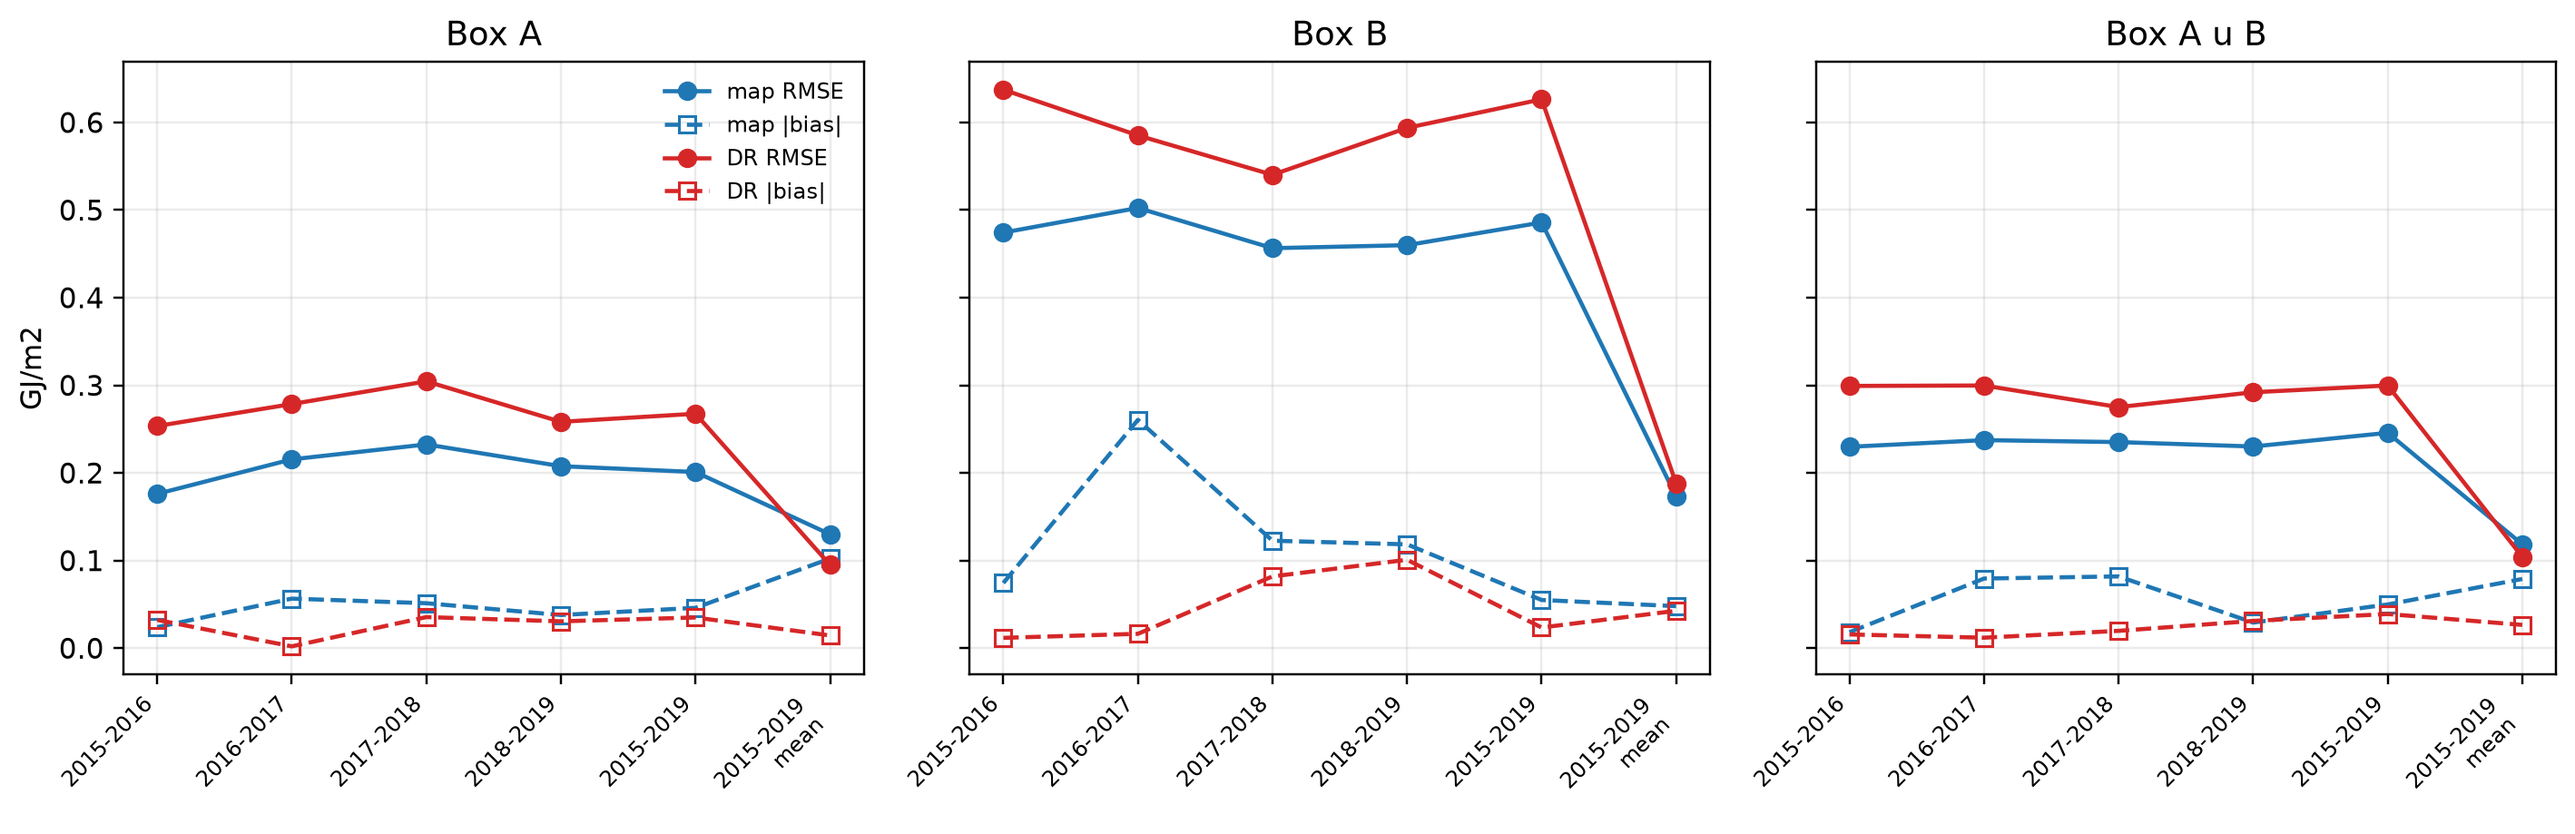
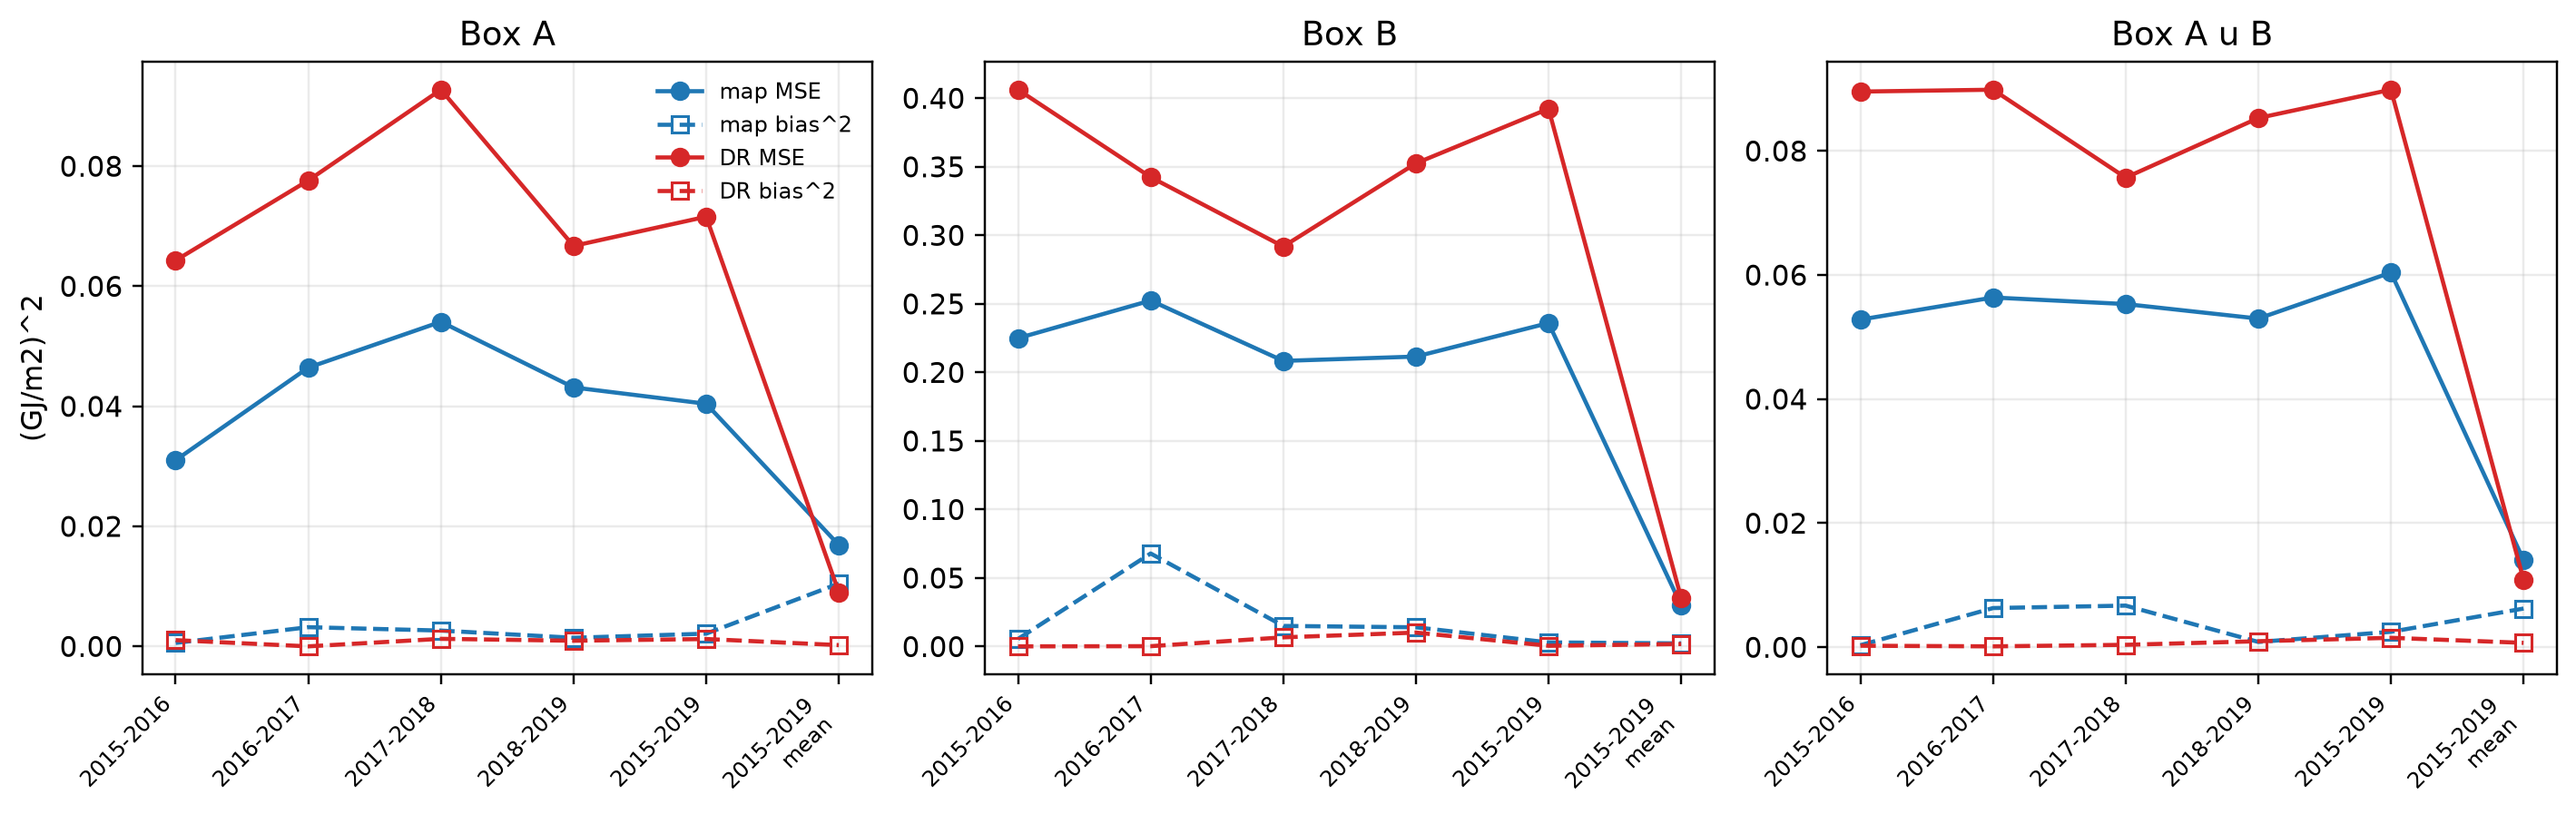
glorys_chain: methods first with virtual-float simulation, q/q-hat/w and advection map; MSE throughout, variance vs bias plane

diff --git a/code/osim/chain.py b/code/osim/chain.py
@@ -705,6 +705,15 @@ def plot_intensity(nd, prof, figsize=(12, 5.5)):
     return fig
 
 
+def plot_advection(rep, n_floats=80, figsize=(8.5, 7.2)):
+    """A random subset of one replicate's deployed floats, 2010-2019 tracks at the 10-day profiles over the
+    velocity domain, coloured by profile year."""
+    from osim import report as rp
+    p = pd.read_parquet(cs.profile_path(TAG, chunk=rep), columns=["float_id", "time", "lat", "lon"])
+    return rp._trajectory_map(p.assign(year=p.time.dt.year), max_floats=n_floats, figsize=figsize,
+                              years=list(range(2010, 2020)), subset_seed=rep)
+
+
 def plot_intensity_grid(nq=None, figsize=(12, 13)):
     """Quarterly-mean design intensity q-hat = sum_c N_c q-hat_c, years by quarters, relative to its
     area- and day-weighted mean over A u B in that year."""
@@ -853,24 +862,26 @@ def plot_naive_bias(de, al, box_lab, figsize=(7, 4)):
 
 
 def plot_tradeoff(s, est_lab, box_lab, figsize=(13, 4.3)):
-    """Bias-variance plane per box: |bias| against sd for each estimator, pooled over years (large) and per
-    year (small), on log axes with iso-RMSE curves."""
+    """Bias-variance plane per box: variance against |bias| for each estimator, pooled over years (large) and per
+    year (small), on log axes with iso-MSE curves variance = MSE - bias^2."""
     import matplotlib.pyplot as plt
     fig, ax = plt.subplots(1, len(box_lab), figsize=figsize, sharex=True, sharey=True)
     lo, hi = 3e-3, 4.0
-    t = np.linspace(0, np.pi / 2, 200)
+    bb = np.geomspace(lo, hi, 400)
     for a, b in zip(ax, box_lab):
-        for r in (0.1, 0.2, 0.5, 1, 2):
-            a.plot(r * np.cos(t), r * np.sin(t), color="0.8", lw=0.7, zorder=0)
-            a.text(r * np.cos(0.12), r * np.sin(0.12), f"RMSE {r:g}", fontsize=6, color="0.5")
+        for M in (0.01, 0.04, 0.25, 1, 4):
+            v = M - bb ** 2
+            a.plot(bb[v > 0], v[v > 0], color="0.8", lw=0.7, zorder=0)
+            a.text(lo * 1.15, M * 1.1, f"MSE {M:g}", fontsize=6, color="0.5")
         for c, lab in est_lab.items():
             x = s[(s.box == b) & (s.estimator == c)]
             yr, al = x[x.year != "all"], x[x.year == "all"]
-            a.scatter(yr.bias.abs().clip(lower=lo), yr.sd, s=12, color=EST_COL[c], alpha=0.45)
-            a.scatter(al.bias.abs().clip(lower=lo), al.sd, s=70, color=EST_COL[c], ec="k", lw=0.6, label=lab, zorder=3)
-        a.set(xscale="log", yscale="log", xlim=(lo, hi), ylim=(0.05, hi), title=box_lab[b], xlabel="|bias| (GJ/m2)")
-    ax[0].set_ylabel("sd over deployments (GJ/m2)")
-    ax[0].legend(fontsize=8, frameon=False, loc="upper left")
+            a.scatter(yr.bias.abs().clip(lower=lo), yr.sd ** 2, s=12, color=EST_COL[c], alpha=0.45)
+            a.scatter(al.bias.abs().clip(lower=lo), al.sd ** 2, s=70, color=EST_COL[c], ec="k", lw=0.6, label=lab,
+                      zorder=3)
+        a.set(xscale="log", yscale="log", xlim=(lo, hi), ylim=(2e-3, hi ** 2), title=box_lab[b], xlabel="|bias| (GJ/m2)")
+    ax[0].set_ylabel("variance over deployments (GJ/m2)^2")
+    ax[0].legend(fontsize=8, frameon=False, loc="upper right")
     fig.tight_layout()
     return fig
 
@@ -898,26 +909,26 @@ def plot_by_year(s, est_lab, box_lab, figsize=(13, 8)):
 
 
 def plot_derived(dv, box_lab, figsize=(13, 4.3)):
-    """Map and DR RMSE (solid) and |bias| (dashed) for the multi-year targets."""
+    """Map and DR MSE (solid) and squared bias (dashed) for the multi-year targets."""
     import matplotlib.pyplot as plt
-    fig, ax = plt.subplots(1, len(box_lab), figsize=figsize, sharey=True)
+    fig, ax = plt.subplots(1, len(box_lab), figsize=figsize)
     for a, b in zip(ax, box_lab):
         x = dv[dv.box == b]
         i = np.arange(len(x))
         for c, lab in (("map", "map"), ("dr", "DR")):
             col = EST_COL["krige" if c == "map" else "dr"]
-            a.plot(i, x[f"{c}_rmse"], "o-", color=col, label=f"{lab} RMSE")
-            a.plot(i, x[f"{c}_bias"].abs(), "s--", color=col, mfc="none", label=f"{lab} |bias|")
+            a.plot(i, x[f"{c}_rmse"] ** 2, "o-", color=col, label=f"{lab} MSE")
+            a.plot(i, x[f"{c}_bias"] ** 2, "s--", color=col, mfc="none", label=f"{lab} bias^2")
         a.set_xticks(i, x.target.str.replace(" mean", "\nmean"), rotation=45, ha="right", fontsize=8)
         a.set_title(box_lab[b])
-    ax[0].set_ylabel("GJ/m2")
+    ax[0].set_ylabel("(GJ/m2)^2")
     ax[0].legend(fontsize=8, frameon=False)
     fig.tight_layout()
     return fig
 
 
 def plot_bandwidth(bw, box_lab, prod=SIGMA, figsize=(13, 6.5)):
-    """DR bias (+/- 2 MC se) and RMSE against the kernel time sd, one line per space sd; star at production."""
+    """DR bias (+/- 2 MC se) and MSE against the kernel time sd, one line per space sd; star at production."""
     import matplotlib.pyplot as plt
     fig, ax = plt.subplots(2, len(box_lab), figsize=figsize, sharex=True, sharey="row")
     for j, b in enumerate(box_lab):
@@ -926,15 +937,15 @@ def plot_bandwidth(bw, box_lab, prod=SIGMA, figsize=(13, 6.5)):
             g = g.sort_values("sigma_days")
             lab = f"sigma_s = 1/{round(1 / sd)} deg"
             ax[0, j].errorbar(g.sigma_days, g.dr_bias, 2 * g.dr_bias_se, marker="o", capsize=2, color=f"C{k}", label=lab)
-            ax[1, j].plot(g.sigma_days, g.dr_rmse, "o-", color=f"C{k}")
+            ax[1, j].plot(g.sigma_days, g.dr_rmse ** 2, "o-", color=f"C{k}")
         p = x[np.isclose(x.sigma_deg, prod[0], atol=1e-3) & np.isclose(x.sigma_days, prod[1])]
         ax[0, j].plot(p.sigma_days, p.dr_bias, "*", color="k", ms=13, zorder=4, label="production")
-        ax[1, j].plot(p.sigma_days, p.dr_rmse, "*", color="k", ms=13, zorder=4)
+        ax[1, j].plot(p.sigma_days, p.dr_rmse ** 2, "*", color="k", ms=13, zorder=4)
         ax[0, j].axhline(0, color="k", lw=0.6)
         ax[0, j].set_title(box_lab[b])
         ax[1, j].set(xlabel="kernel time sd (days)", xticks=(2, 4, 8))
     ax[0, 0].set_ylabel("DR bias (GJ/m2)")
-    ax[1, 0].set_ylabel("DR RMSE (GJ/m2)")
+    ax[1, 0].set_ylabel("DR MSE (GJ/m2)^2")
     ax[0, 0].legend(fontsize=8, frameon=False)
     fig.tight_layout()
     return fig
